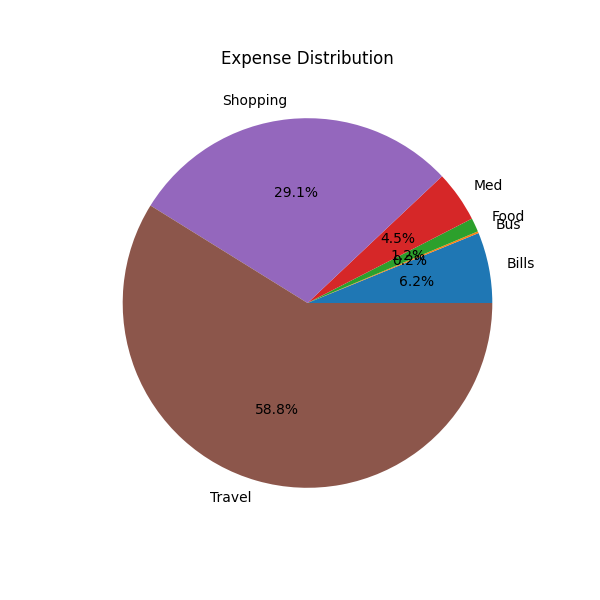
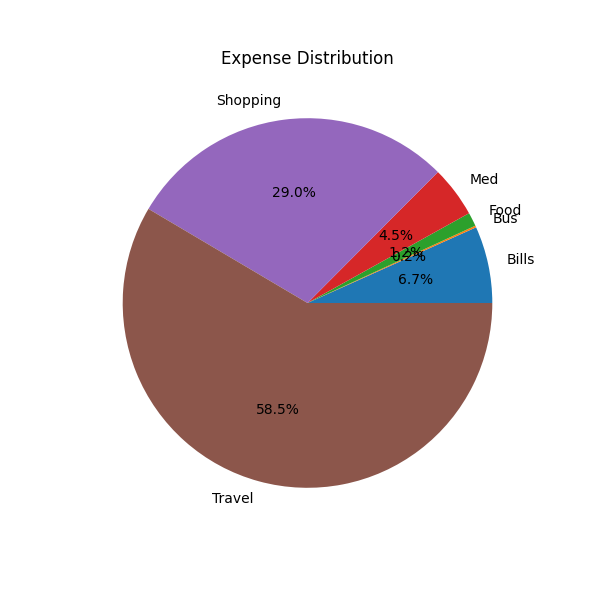
Enhance summary page with year and month filters, update expense calculations, and improve UI elements

diff --git a/templates/summary.html b/templates/summary.html
@@ -10,22 +10,51 @@
 <div class="header">
     <h1>Smart Expense Tracker</h1>
 </div>
+
 <h1>Expense Summary</h1>
+
+<form method="GET" action="/summary" class="summary-filter">
+
+    <select name="year">
+        <option value="">All Years</option>
+        {% for y in years %}
+            <option value="{{ y }}"
+            {% if y|string == selected_year %}
+                selected
+            {% endif %}>
+                {{ y }}
+            </option>
+        {% endfor %}
+    </select>
+
+    <select name="month">
+
+    <option value="">All Months</option>
+
+    <option value="1">January</option>
+    <option value="2">February</option>
+    <option value="3">March</option>
+    <option value="4">April</option>
+    <option value="5">May</option>
+    <option value="6">June</option>
+    <option value="7">July</option>
+    <option value="8">August</option>
+    <option value="9">September</option>
+    <option value="10">October</option>
+    <option value="11">November</option>
+    <option value="12">December</option>
+
+</select>
+
+    <button type="submit">Show</button>
+
+</form>
+
+<br>
 <div class="summary-container">
-
     <div class="summary-card">
-        <h3>{{ week_name }}</h3>
-        <p>₹ {{ week_total }}</p>
-    </div>
-
-    <div class="summary-card">
-        <h3>{{ month_name }}</h3>
-        <p>₹ {{ month_total }}</p>
-    </div>
-
-    <div class="summary-card">
-        <h3>Year {{ year_name }}</h3>
-        <p>₹ {{ year_total }}</p>
+        <h3>Total Expense</h3>
+        <p>₹ {{ total_expense }}</p>
     </div>
 
     <div class="summary-card">
@@ -33,12 +62,21 @@
         <p>{{ category }}</p>
     </div>
 
+    <div class="summary-card">
+     <h3>Average Transaction</h3>
+     <p>₹ {{ average_transaction }}</p>
+    </div>
 </div>
 
 
 <div class="chart-card">
+
+{% if no_data %}
+    <h3>No expenses found for the selected period.</h3>
+{% else %}
     <img src="{{ url_for('static', filename='chart.png') }}"
          alt="Expense Chart">
+{% endif %}
 
 </div>
 <br><br>

diff --git a/static/style.css b/static/style.css
@@ -157,3 +157,13 @@ footer{
     max-width:600px;
     border-radius:10px;
 }
+.summary-filter{
+    margin-bottom:20px;
+}
+
+.summary-filter select{
+    padding:10px;
+    border-radius:6px;
+    border:1px solid #ccc;
+    margin:0 5px;
+}

diff --git a/app.py b/app.py
@@ -149,44 +149,39 @@ def summary():
 
     df = pd.read_sql_query("SELECT * FROM expenses", conn)
     df["date"] = pd.to_datetime(df["date"])
-    today = pd.Timestamp.today()
-    year_name = today.year
-    month_name = today.strftime("%B %Y")
-    week_name = f"Week {today.isocalendar().week} ({today.year})"
-    week_data = df[
-    (df["date"].dt.isocalendar().week == today.isocalendar().week) &
-    (df["date"].dt.year == today.year)
-     ]
+    selected_year = request.args.get("year")
+    selected_month = request.args.get("month")
+    years = sorted(df["date"].dt.year.unique())
+    if selected_year:
+      df = df[df["date"].dt.year == int(selected_year)]
 
-    week_total = week_data["amount"].sum()
-    month_data = df[
-    (df["date"].dt.month == today.month) &
-    (df["date"].dt.year == today.year)
-     ]
-
-    month_total = month_data["amount"].sum()
-
-# Current year
-    year_data = df[
-    df["date"].dt.year == today.year
-     ]
-    year_total = year_data["amount"].sum()
-    
-    
+    if selected_month:
+     df = df[df["date"].dt.month == int(selected_month)]
+     
     
     conn.close()
 
     if df.empty:
-        return "No expense data available."
-
-    total_expense = np.sum(df["amount"])
-    average_transaction = round(df["amount"].mean(), 2)
-
-    highest_category = (
+        total_expense = 0
+        average_transaction = 0
+        highest_category = "No Data"
+          
+    total_expense = round(df["amount"].sum(), 2)
+    if not df.empty:
+     highest_category = (
         df.groupby("category")["amount"]
         .sum()
         .idxmax()
     )
+    else:
+     highest_category = "No Data"
+    
+    average_transaction = (
+    round(df["amount"].mean(), 2)
+    if not df.empty
+    else 0
+)
+
 
     # Generate chart
     df["category"] = df["category"].str.title()
@@ -205,13 +200,13 @@ def summary():
 
     return render_template(
     "summary.html",
-    year_total=year_total,
-    month_total=month_total,
-    week_total=week_total,
-    year_name=year_name,
-    month_name=month_name,
-    week_name=week_name,
-    category=highest_category
+    total_expense=total_expense,
+    average_transaction=average_transaction,
+    category=highest_category,
+    years=years,
+    selected_year=selected_year,
+    selected_month=selected_month,
+    no_data=False if not df.empty else True
 )
     
 if __name__ == "__main__":
